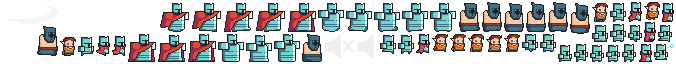
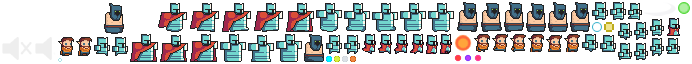
Adds new graphics for guns

diff --git a/src/constants.js b/src/constants.js
@@ -61,7 +61,7 @@ export const GUNS = {
     speed: 170,
     range: 150,
     frame: 'shot.png',
-    size: 2,
+    size: 1,
     bodySize: 4,
     soundRate: 1.8,
   },
@@ -74,9 +74,9 @@ export const GUNS = {
     count: 5,
     range: 30,
     health: 3,
-    frame: 'shot.png',
+    frame: 'shot-shotgun.png',
     size: 3,
-    bodySize: 4,
+    bodySize: 5,
     spread: Math.PI / 3,
     soundRate: 0.5,
   },
@@ -86,11 +86,11 @@ export const GUNS = {
     delay: 50,
     speed: 120,
     range: 200,
-    frame: 'shot.png',
+    frame: 'shot-cross.png',
     accel: -5,
-    size: 3,
+    size: 2.5,
     health: 10,
-    bodySize: 4,
+    bodySize: 5,
     soundRate: 1.8,
   },
   rocket: {
@@ -99,7 +99,7 @@ export const GUNS = {
     delay: 90,
     speed: 60,
     range: 150,
-    frame: 'shot.png',
+    frame: 'shot-rocket.png',
     size: 2,
     explode: 'rocketExplode',
     bodySize: 4,
@@ -111,10 +111,10 @@ export const GUNS = {
     delay: 30,
     speed: 150,
     range: 150,
-    frame: 'shot.png',
-    size: 2,
+    frame: 'shot-splitter.png',
+    size: 1,
     explode: 'smallBlast',
-    bodySize: 4,
+    bodySize: 10,
     soundRate: 1.8,
   },
   bubbler: {
@@ -129,9 +129,9 @@ export const GUNS = {
     // lower will make it boomerang
     accel: -1,
     randomAngle: true,
-    frame: 'shot.png',
+    frame: 'shot-bubbler.png',
     size: 1,
-    bodySize: 4,
+    bodySize: 6,
     soundRate: 1.8,
   },
   bone: {
@@ -140,10 +140,10 @@ export const GUNS = {
     delay: 40,
     speed: 200,
     range: 350,
-    frame: 'shot.png',
-    size: 2,
+    frame: 'shot-bone.png',
+    size: 1.5,
     health: 10,
-    bodySize: 4,
+    bodySize: 5,
     soundRate: 1.8,
     reacquire: true,
     target: 'randomAngle',
@@ -154,9 +154,9 @@ export const GUNS = {
     delay: 70,
     speed: 150,
     range: 150,
-    frame: 'shot.png',
-    size: 2,
-    bodySize: 4,
+    frame: 'shot-tracer.png',
+    size: 1,
+    bodySize: 5,
     health: 10,
     soundRate: 1.8,
   },
@@ -168,9 +168,9 @@ export const GUNS = {
     delay: 30,
     speed: 50,
     range: 250,
-    frame: 'shot.png',
-    size: 2,
-    bodySize: 4,
+    frame: 'shot-wand.png',
+    size: 1,
+    bodySize: 5,
     soundRate: 1.8,
     target: 'nearestEnemy',
   },
@@ -180,9 +180,9 @@ export const GUNS = {
     delay: 120,
     speed: 150,
     range: 250,
-    frame: 'shot.png',
-    size: 2,
-    bodySize: 4,
+    frame: 'shot-fire.png',
+    size: 1,
+    bodySize: 12,
     soundRate: 1.8,
     target: 'randomEnemy',
   },
@@ -192,7 +192,7 @@ export const GUNS = {
     delay: 100,
     speed: 250,
     range: 650,
-    frame: 'shot.png',
+    frame: 'shot-chain.png',
     size: 2,
     health: 99,
     bodySize: 4,
@@ -208,11 +208,11 @@ export const GUNS = {
     delay: 50,
     speed: 120,
     range: 80,
-    frame: 'shot.png',
-    size: 3,
+    frame: 'shot-bible.png',
+    size: 2,
     count: 1,
     spread: Math.PI,
-    bodySize: 4,
+    bodySize: 9,
     health: 999,
     lifetime: 50,
     soundRate: 1.8,
@@ -225,13 +225,13 @@ export const GUNS = {
     delay: 150,
     speed: 0,
     range: 1,
-    frame: 'shot.png',
-    size: 20,
+    frame: 'shot-garlic.png',
+    size: 8,
     count: 1,
     maxCount: 1,
     spread: 0,
     alpha: 0.5,
-    bodySize: 4,
+    bodySize: 12,
     health: 99,
     lifetime: 147,
     soundRate: 1.8,
@@ -246,11 +246,11 @@ export const GUNS = {
     delay: 40,
     speed: 40,
     range: 350,
-    frame: 'shot.png',
-    size: 7,
+    frame: 'shot-orbs.png',
+    size: 3,
     health: 10,
     lifetime: 300,
-    bodySize: 4,
+    bodySize: 10,
     soundRate: 1.8,
     target: 'randomAngle',
   },
@@ -260,9 +260,9 @@ export const GUNS = {
     delay: 400,
     speed: 150,
     range: 150,
-    frame: 'shot.png',
-    size: 12,
-    bodySize: 4,
+    frame: 'shot-water.png',
+    size: 3,
+    bodySize: 10,
     health: 9999,
     lifetime: 400,
     soundRate: 1.8,
@@ -294,10 +294,10 @@ export const GUNS = {
     speed: { min: 50, max: 100 },
     speedY: { min: -230, max: -170 },
     range: 250,
-    frame: 'shot.png',
-    size: 4,
+    frame: 'shot-axe.png',
+    size: 3,
     health: 10,
-    bodySize: 4,
+    bodySize: 5,
     soundRate: 1.8,
     gravity: 300,
     target: 'melee',
@@ -334,9 +334,9 @@ export const GUNS = {
     count: 10,
     offset: 1,
     range: 20,
-    frame: 'shot.png',
-    size: 2,
-    bodySize: 4,
+    frame: 'shot-splitter.png',
+    size: 0.5,
+    bodySize: 10,
     spread: Math.PI * 2,
     soundRate: 0.5,
   },
